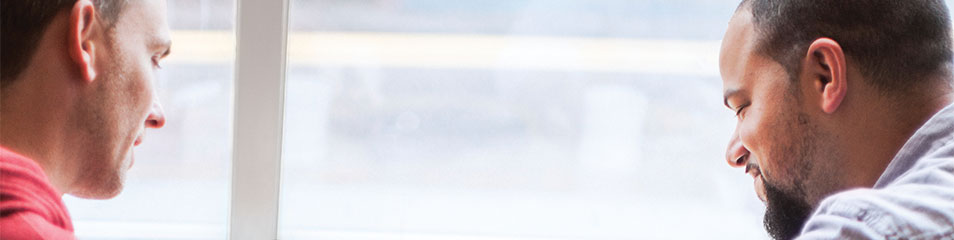
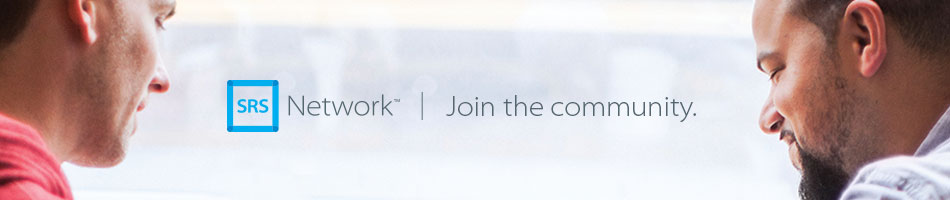
refs #5480 Updated header image on Network page

diff --git a/wp-content/themes/u-design-child/page-Network.php b/wp-content/themes/u-design-child/page-Network.php
@@ -13,14 +13,7 @@ get_header();
 <div id="content-container" class="full-width">
 	<div id="main-content" class="full-width">
 		<div id="network">
-			<div class="page-banner">
-        <div class="banner-text">Join the community.
-          <div class="logo-text">
-            <img src="<?php bloginfo('template_directory');?>-child/images/network/srs_logo.png" alt="">
-            <span>Network<sup>TM</sup></span>
-          </div>
-        </div>
-      </div>
+			<div class="page-banner"></div>
       <div class="page-subtitle">Membership options made with you in mind</div>
       <div class="page-container">
         <div class="member-container">
